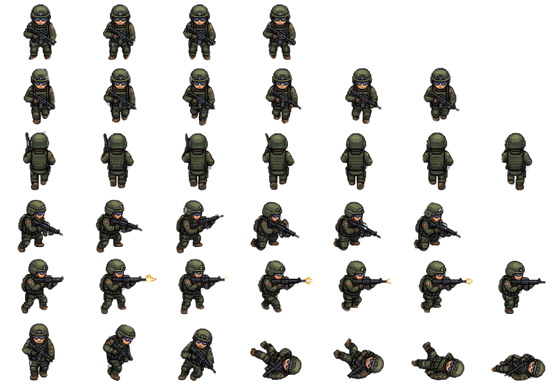
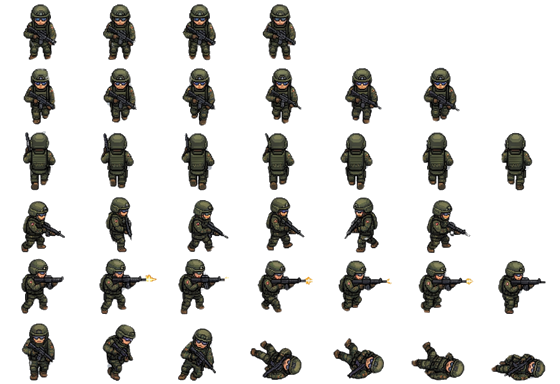
Andar de lado usa a caminhada da sheet, espelhada
A linha usada antes era uma pose agachada mirando, nao um passo. A unica
caminhada lateral coerente da sheet olha para a esquerda; pack_sheet.py
ganha um flag para espelhar a linha ao empacotar, e todas as linhas de
lado seguem viradas para a direita. src/anim nao muda.

Claude-Session: https://claude.ai/code/session_01BFvPtgw9kMF7zPU1xzF5RL

diff --git a/tools/pack_sheet.py b/tools/pack_sheet.py
@@ -28,14 +28,16 @@ CELL_W, CELL_H = 80, 64
 ALPHA_MIN = 20          # abaixo disso e fundo
 MIN_AREA = 6            # pontos soltos menores que isso sao lixo
 
-# (nome, linha na grade de origem, colunas na grade de origem)
+# (nome, linha na grade de origem, colunas na grade de origem, espelhar)
+# Toda linha de lado sai virada para a direita: a unica caminhada lateral
+# coerente da sheet olha para a esquerda, entao e espelhada ao empacotar.
 ANIMATIONS = [
-    ("idle_down",  0, range(0, 4)),
-    ("walk_down",  1, range(0, 6)),
-    ("walk_up",    1, range(7, 14)),
-    ("walk_side",  5, range(7, 13)),
-    ("shoot_side", 2, range(7, 14)),
-    ("death",      7, range(7, 14)),
+    ("idle_down",  0, range(0, 4),  False),
+    ("walk_down",  1, range(0, 6),  False),
+    ("walk_up",    1, range(7, 14), False),
+    ("walk_side",  4, range(0, 6),  True),
+    ("shoot_side", 2, range(7, 14), False),
+    ("death",      7, range(7, 14), False),
 ]
 
 
@@ -114,11 +116,11 @@ def main():
             cells.setdefault(key, set()).update(part)
 
     centers = row_centers(alpha, w, h, pitch_y)
-    max_frames = max(len(cols) for _, _, cols in ANIMATIONS)
+    max_frames = max(len(cols) for _, _, cols, _ in ANIMATIONS)
     dst = Image.new("RGBA", (max_frames * CELL_W, len(ANIMATIONS) * CELL_H), (0, 0, 0, 0))
     out = dst.load()
 
-    for out_row, (name, grid_row, cols) in enumerate(ANIMATIONS):
+    for out_row, (name, grid_row, cols, mirror) in enumerate(ANIMATIONS):
         for out_col, grid_col in enumerate(cols):
             pts = cells.get((grid_row, grid_col))
             if not pts:
@@ -128,14 +130,15 @@ def main():
             # floor(v + 0.5), e nao round(): com o centro em meio pixel,
             # round() arredonda para o par e funde linhas vizinhas.
             dx = int(math.floor(-ax + 0.5))
+            dxm = int(math.floor(ax + 0.5))      # espelhado em volta do centro
             dy = int(math.floor(-ay + 0.5))
             for x, y in pts:
-                ox = out_col * CELL_W + CELL_W // 2 + x + dx
+                ox = out_col * CELL_W + CELL_W // 2 + (dxm - x if mirror else x + dx)
                 oy = out_row * CELL_H + CELL_H // 2 + y + dy
                 if not (out_col * CELL_W <= ox < (out_col + 1) * CELL_W and out_row * CELL_H <= oy < (out_row + 1) * CELL_H):
                     raise SystemExit(f"{name} frame {out_col}: pixel ({x}, {y}) nao cabe na celula")
                 out[ox, oy] = pixels[x, y]
-        print(f"linha {out_row}: {name:<10} {len(cols)} frames")
+        print(f"linha {out_row}: {name:<10} {len(cols)} frames" + (" (espelhada)" if mirror else ""))
 
     dst.save(DST)
     print(f"{DST.relative_to(ROOT)}: {dst.size[0]}x{dst.size[1]}, celulas {CELL_W}x{CELL_H}")

diff --git a/README.md b/README.md
@@ -75,8 +75,10 @@ linha em células de 80×64 com o corpo sempre no centro:
 | 4 | atirando de lado | 7 |
 | 5 | morte | 7 |
 
-A direção do sprite segue a mira, quantizada em quatro; para a esquerda o
-render espelha as linhas de lado. Não há linha de tiro para cima ou para
+Toda linha de lado fica virada para a direita: a única caminhada lateral
+coerente da sheet olha para a esquerda, então o script a espelha ao
+empacotar. A direção do sprite segue a mira, quantizada em quatro; para a
+esquerda o render espelha as linhas de lado. Não há linha de tiro para cima ou para
 baixo, então ali o tiro usa o andar ou o idle. Ao regenerar a sheet no Gemini,
 ajuste `ANIMATIONS` no script se a posição das linhas mudar, rode-o a partir
 da raiz e confira `FRAMES` em `src/anim.nx`.
